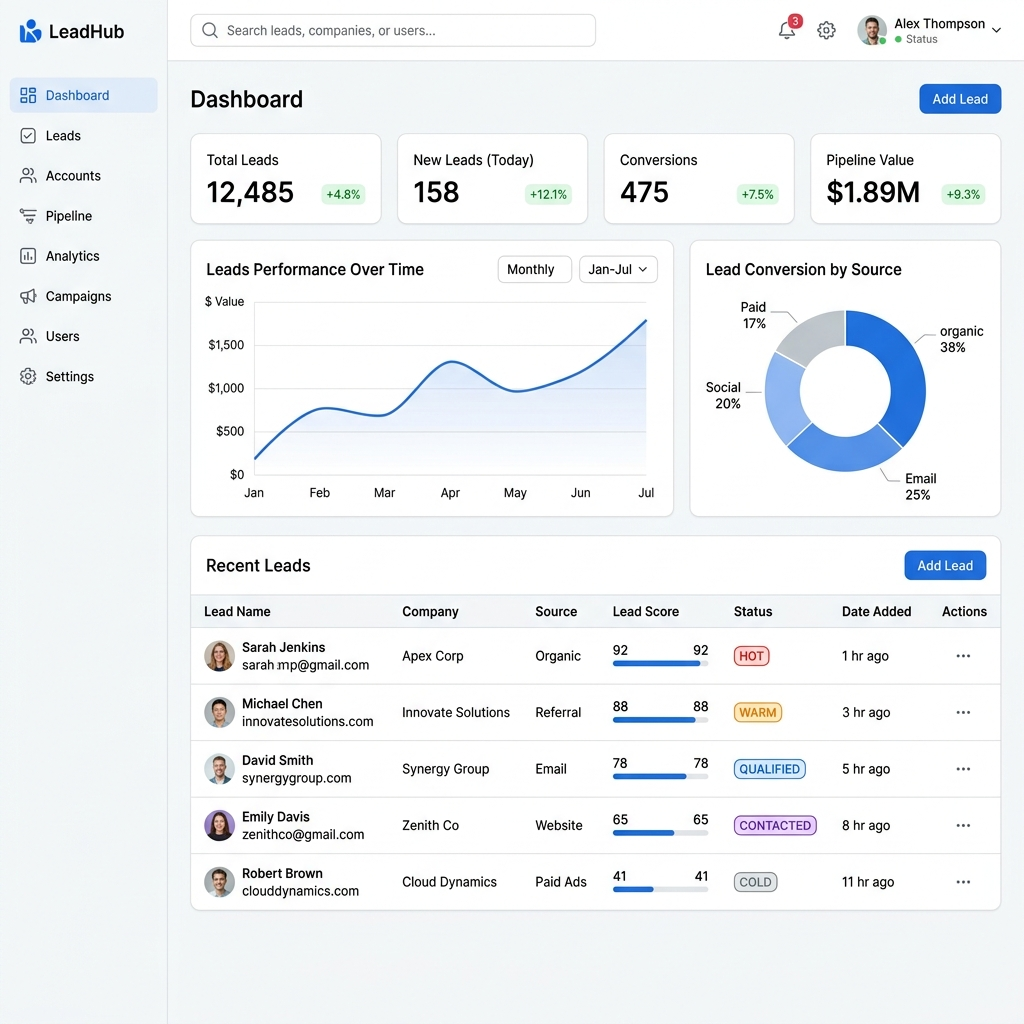
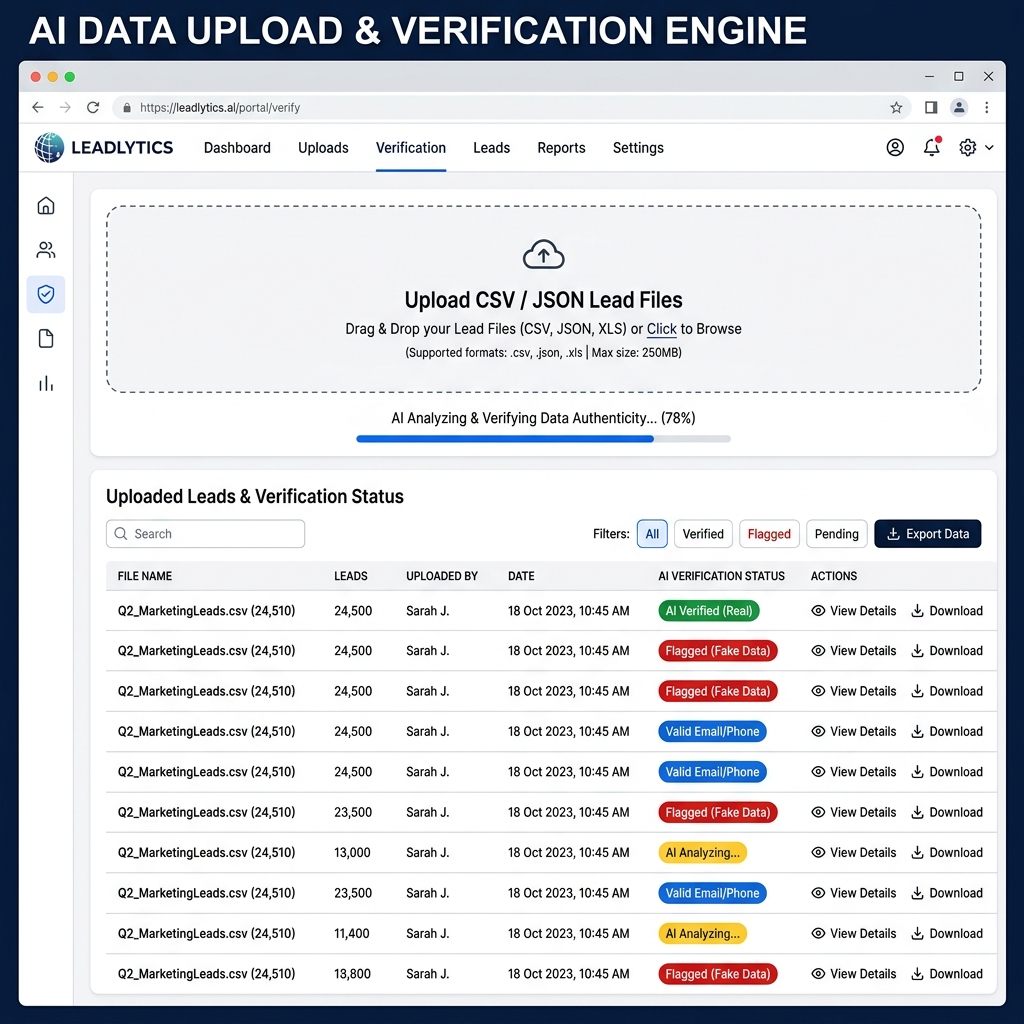
Update project title, description and preview image to reflect AI Data Upload and Verification features

Changed region(s): [[0.0, 0.0, 1.0, 1.0], [0.5938, 0.125, 0.6875, 0.2188], [0.7188, 0.1562, 0.7812, 0.2188]]

diff --git a/src/features/projects/projectsData.js b/src/features/projects/projectsData.js
@@ -1,10 +1,10 @@
 export default [
   {
-    title: "Leads Platform — Lead Management System",
+    title: "AI Lead Platform — Data Upload & AI Verification",
     description:
-      "Full-stack lead management platform featuring authenticated user access, CSV/JSON/Markdown lead imports, server-side search, pagination, duplicate detection, and MongoDB integration.",
+      "Full-stack lead management platform where users upload lead data files (CSV/JSON) and AI automatically verifies data authenticity to detect real vs fake leads, remove duplicates, and manage verified leads in MongoDB.",
     image: "/leads-platform.png",
-    techStack: ["React", "Node.js", "Express", "MongoDB", "TailwindCSS", "Vite"],
+    techStack: ["React", "AI Verification", "Node.js", "Express", "MongoDB", "TailwindCSS"],
     liveLink: "https://leads-platform-web-phi.vercel.app/",
     githubLink: "https://github.com/shrutigupta7788/leads-platform-web",
     featured: true,
